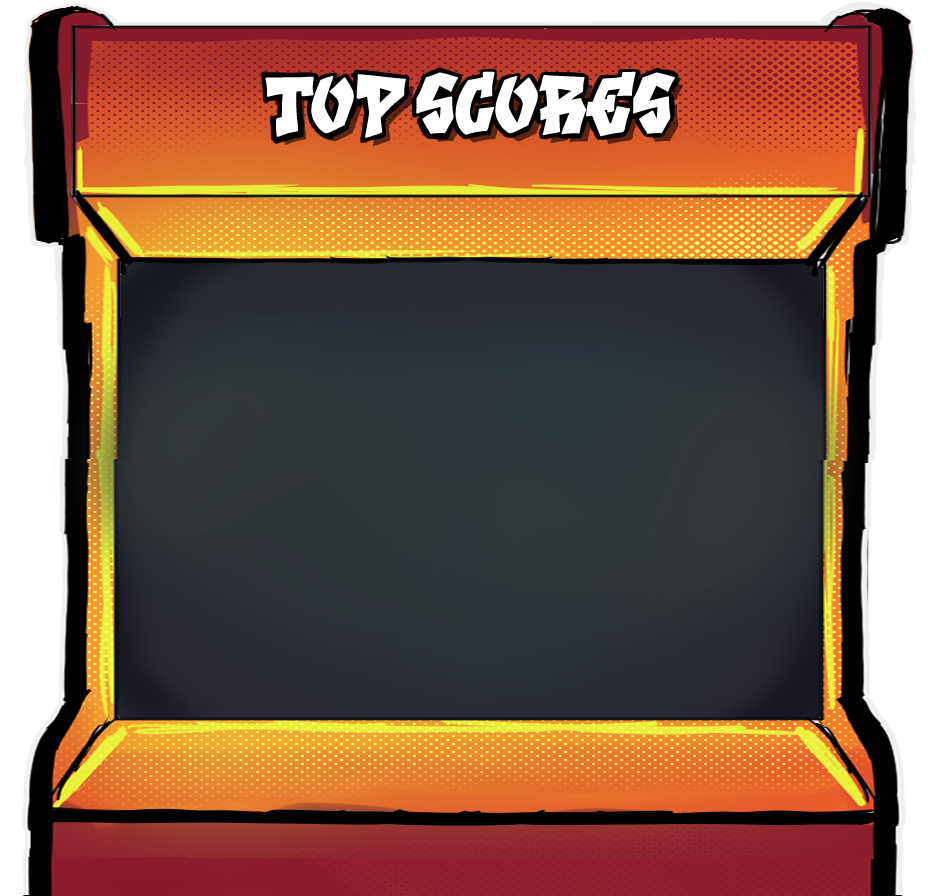
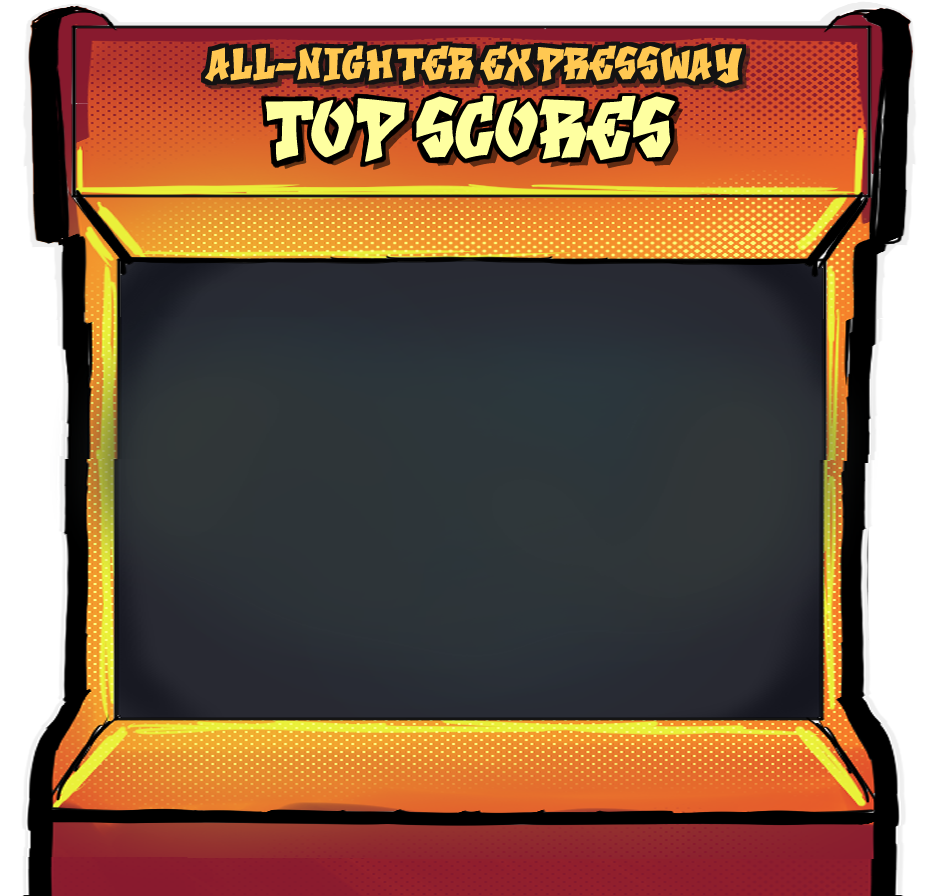
Added arcade machine image  with more accurate title

Changed region(s): [[0.2148, 0.0312, 0.7979, 0.1875]]

diff --git a/src/pages/NewsAndUpdates.tsx b/src/pages/NewsAndUpdates.tsx
@@ -46,9 +46,9 @@ const NewsAndUpdatesPage = () => {
   const paginatedUpdates = isMobile
     ? restUpdates
     : restUpdates.slice(
-      (currentPage - 1) * itemsPerPage,
-      currentPage * itemsPerPage
-    );
+        (currentPage - 1) * itemsPerPage,
+        currentPage * itemsPerPage
+      );
   // Handlers
   const nextPage = () =>
     setCurrentPage((prev) => Math.min(prev + 1, totalPages));
@@ -102,15 +102,15 @@ const NewsAndUpdatesPage = () => {
             <motion.div
               layoutId={`item-${active.title}-${id}`}
               ref={ref}
-              className={`z-400 w-18/20 h-[80%] md:h-150 md:max-h-[70%] bg-white rounded-3xl overflow-hidden ${isMobile
+              className={`z-400 w-18/20 h-[80%] md:h-150 md:max-h-[70%] bg-white rounded-3xl overflow-hidden ${
+                isMobile
                   ? "flex flex-col overflow-y-auto"
                   : "flex flex-col md:flex-row"
-                }`}
+              }`}
             >
               {isMobile ? (
                 // Mobile layout
                 <>
-
                   <div className="relative w-full flex flex-col p-6 h-full overflow-hidden mb-[1rem]">
                     {/* x button */}
                     <motion.button
@@ -133,7 +133,7 @@ const NewsAndUpdatesPage = () => {
                       <Worker workerUrl="https://unpkg.com/pdfjs-dist@3.4.120/build/pdf.worker.min.js">
                         <Viewer
                           fileUrl={active.contentLink}
-                          defaultScale={.6}
+                          defaultScale={0.6}
                         />
                       </Worker>
                     </div>
@@ -152,7 +152,6 @@ const NewsAndUpdatesPage = () => {
                       className="w-full h-full object-cover object-top"
                     />
                   </motion.div>
-
 
                   <div className="relative w-full flex flex-col p-6 min-w-3/5 xl:min-w-2/5 h-full overflow-hidden">
                     {/* x button */}
@@ -182,7 +181,6 @@ const NewsAndUpdatesPage = () => {
                         />
                       </Worker>
                     </div>
-              
                   </div>
                 </>
               )}
@@ -238,8 +236,9 @@ const NewsAndUpdatesPage = () => {
               key={update.id} // Unique key for each item
               onClick={() => setActive(update)}
               // Full width for all images, but height depends on if it's full-width or not
-              className={`${isFullWidth ? "col-span-1 sm:col-span-2 lg:col-span-3" : ""
-                } bg-white text-black rounded-xl shadow overflow-hidden 
+              className={`${
+                isFullWidth ? "col-span-1 sm:col-span-2 lg:col-span-3" : ""
+              } bg-white text-black rounded-xl shadow overflow-hidden 
               cursor-pointer m-4 `}
             >
               {/* Image */}
